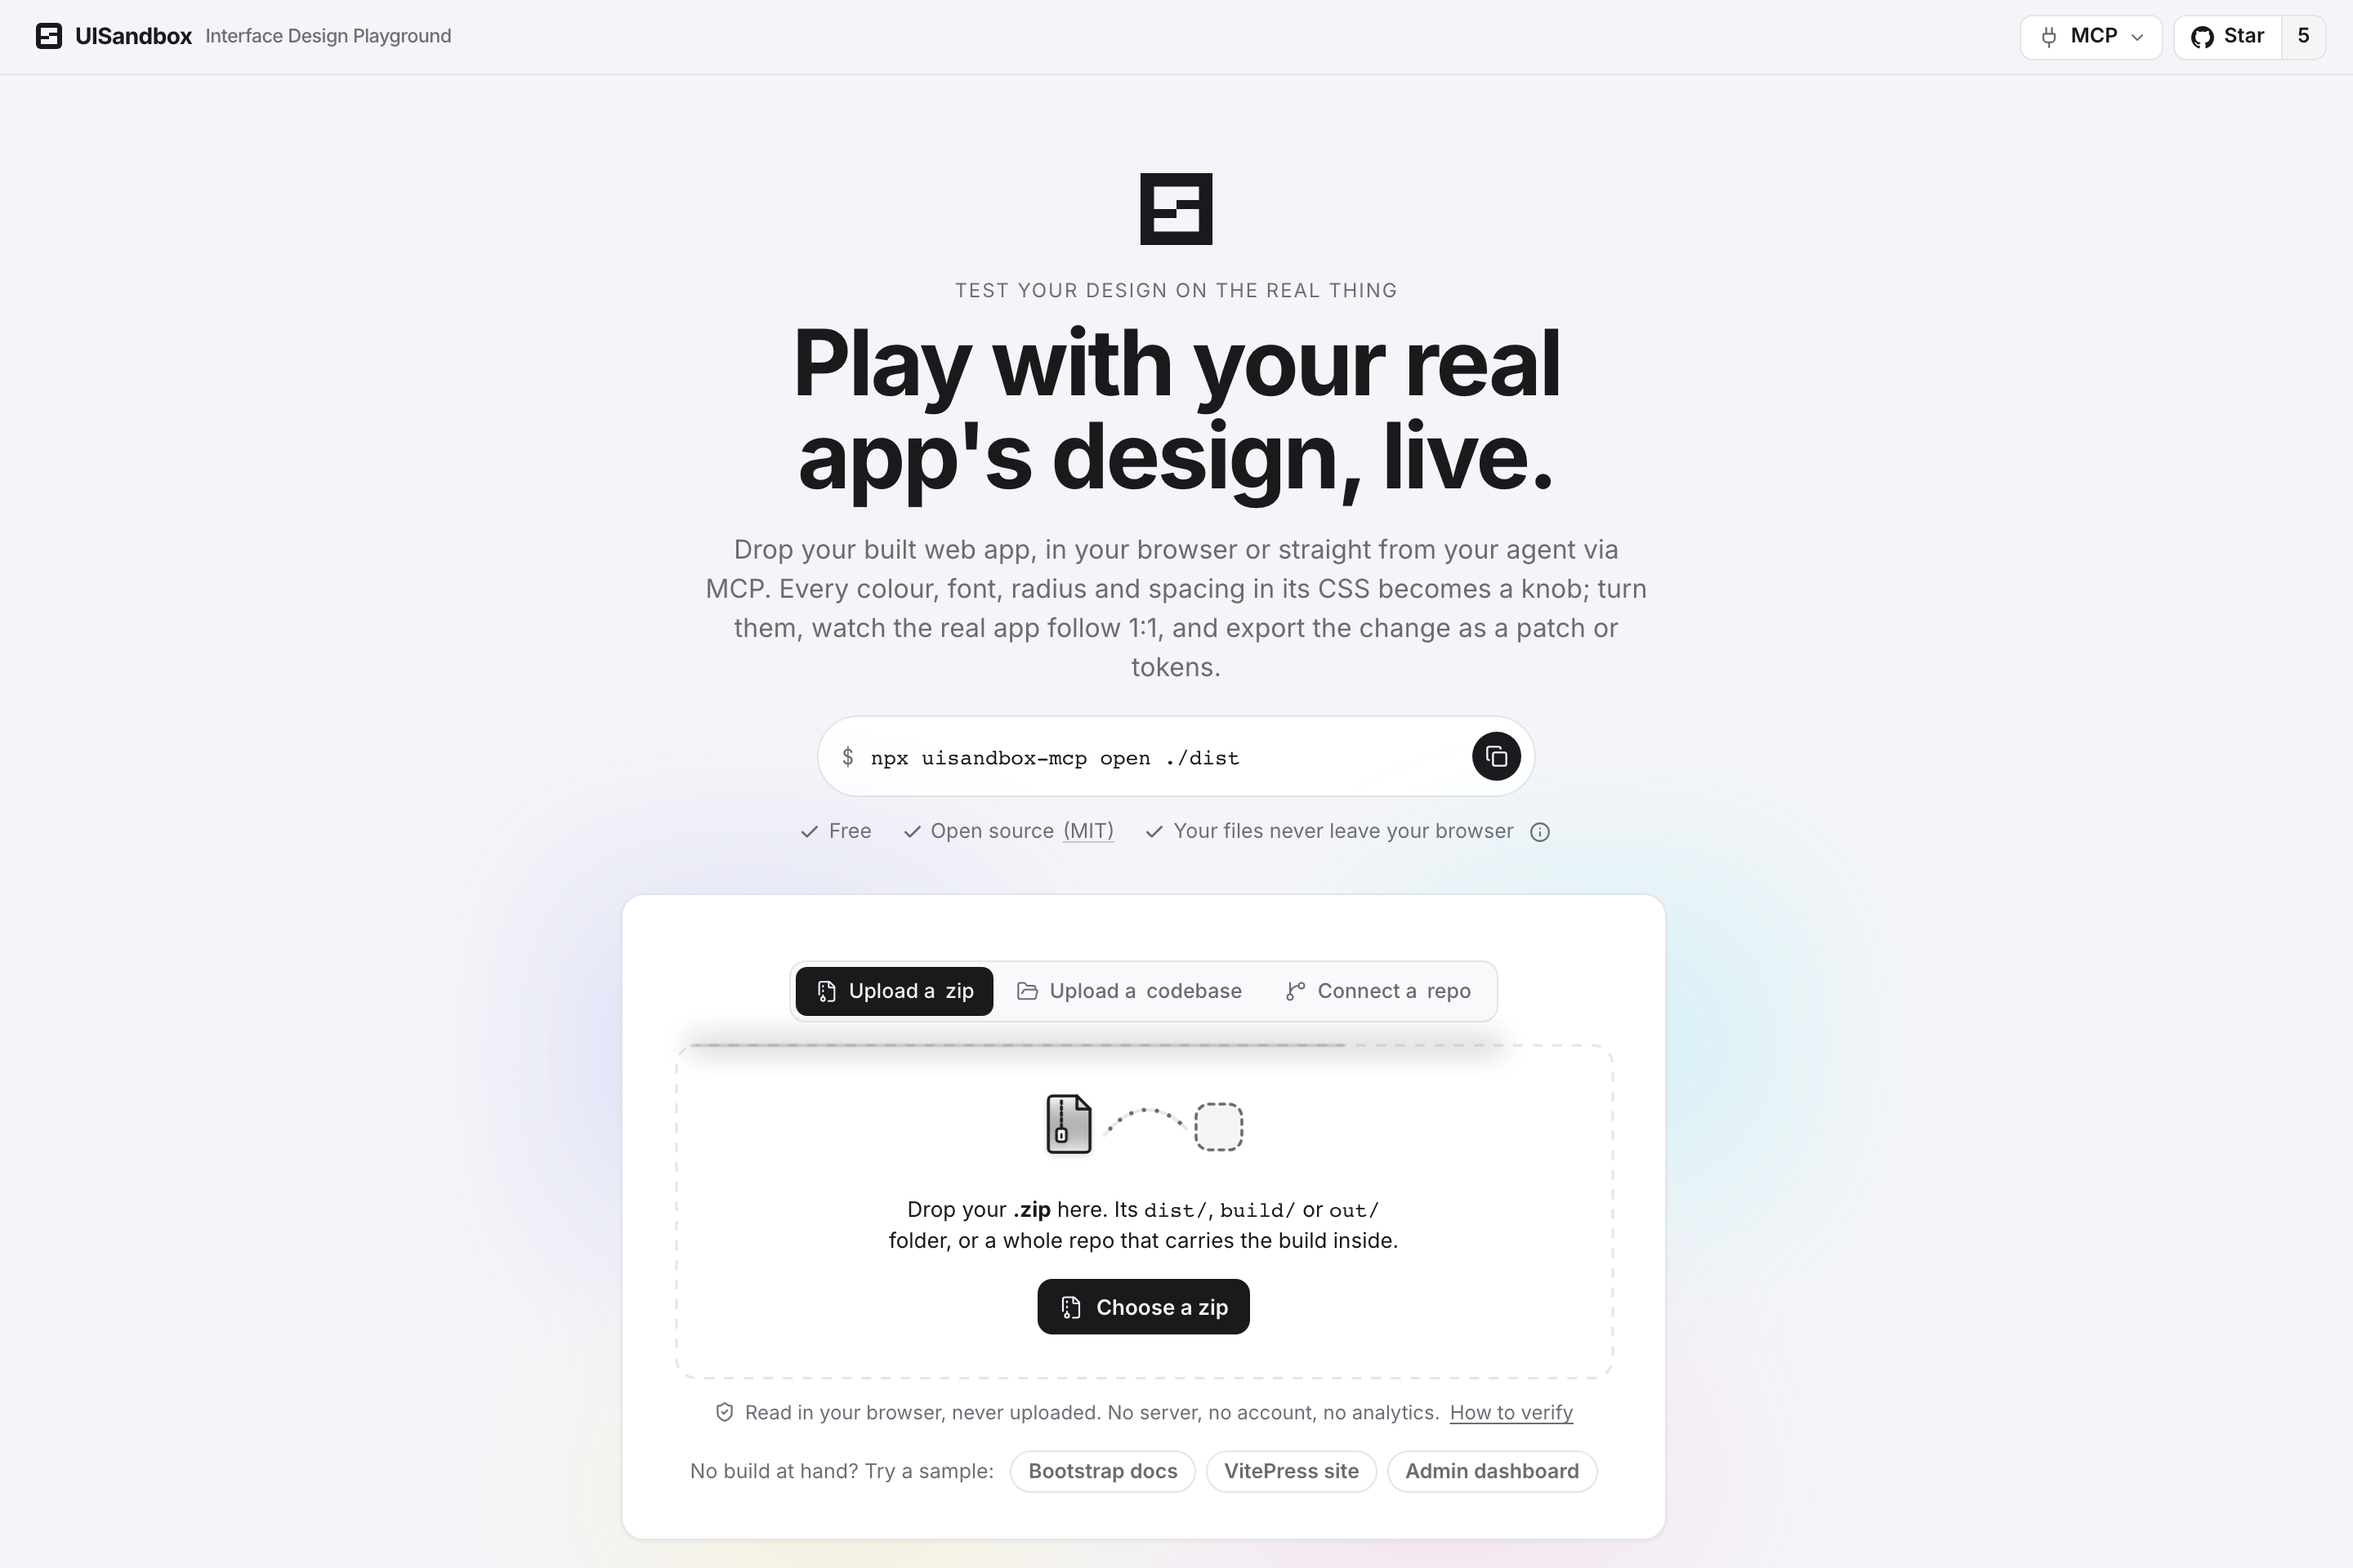
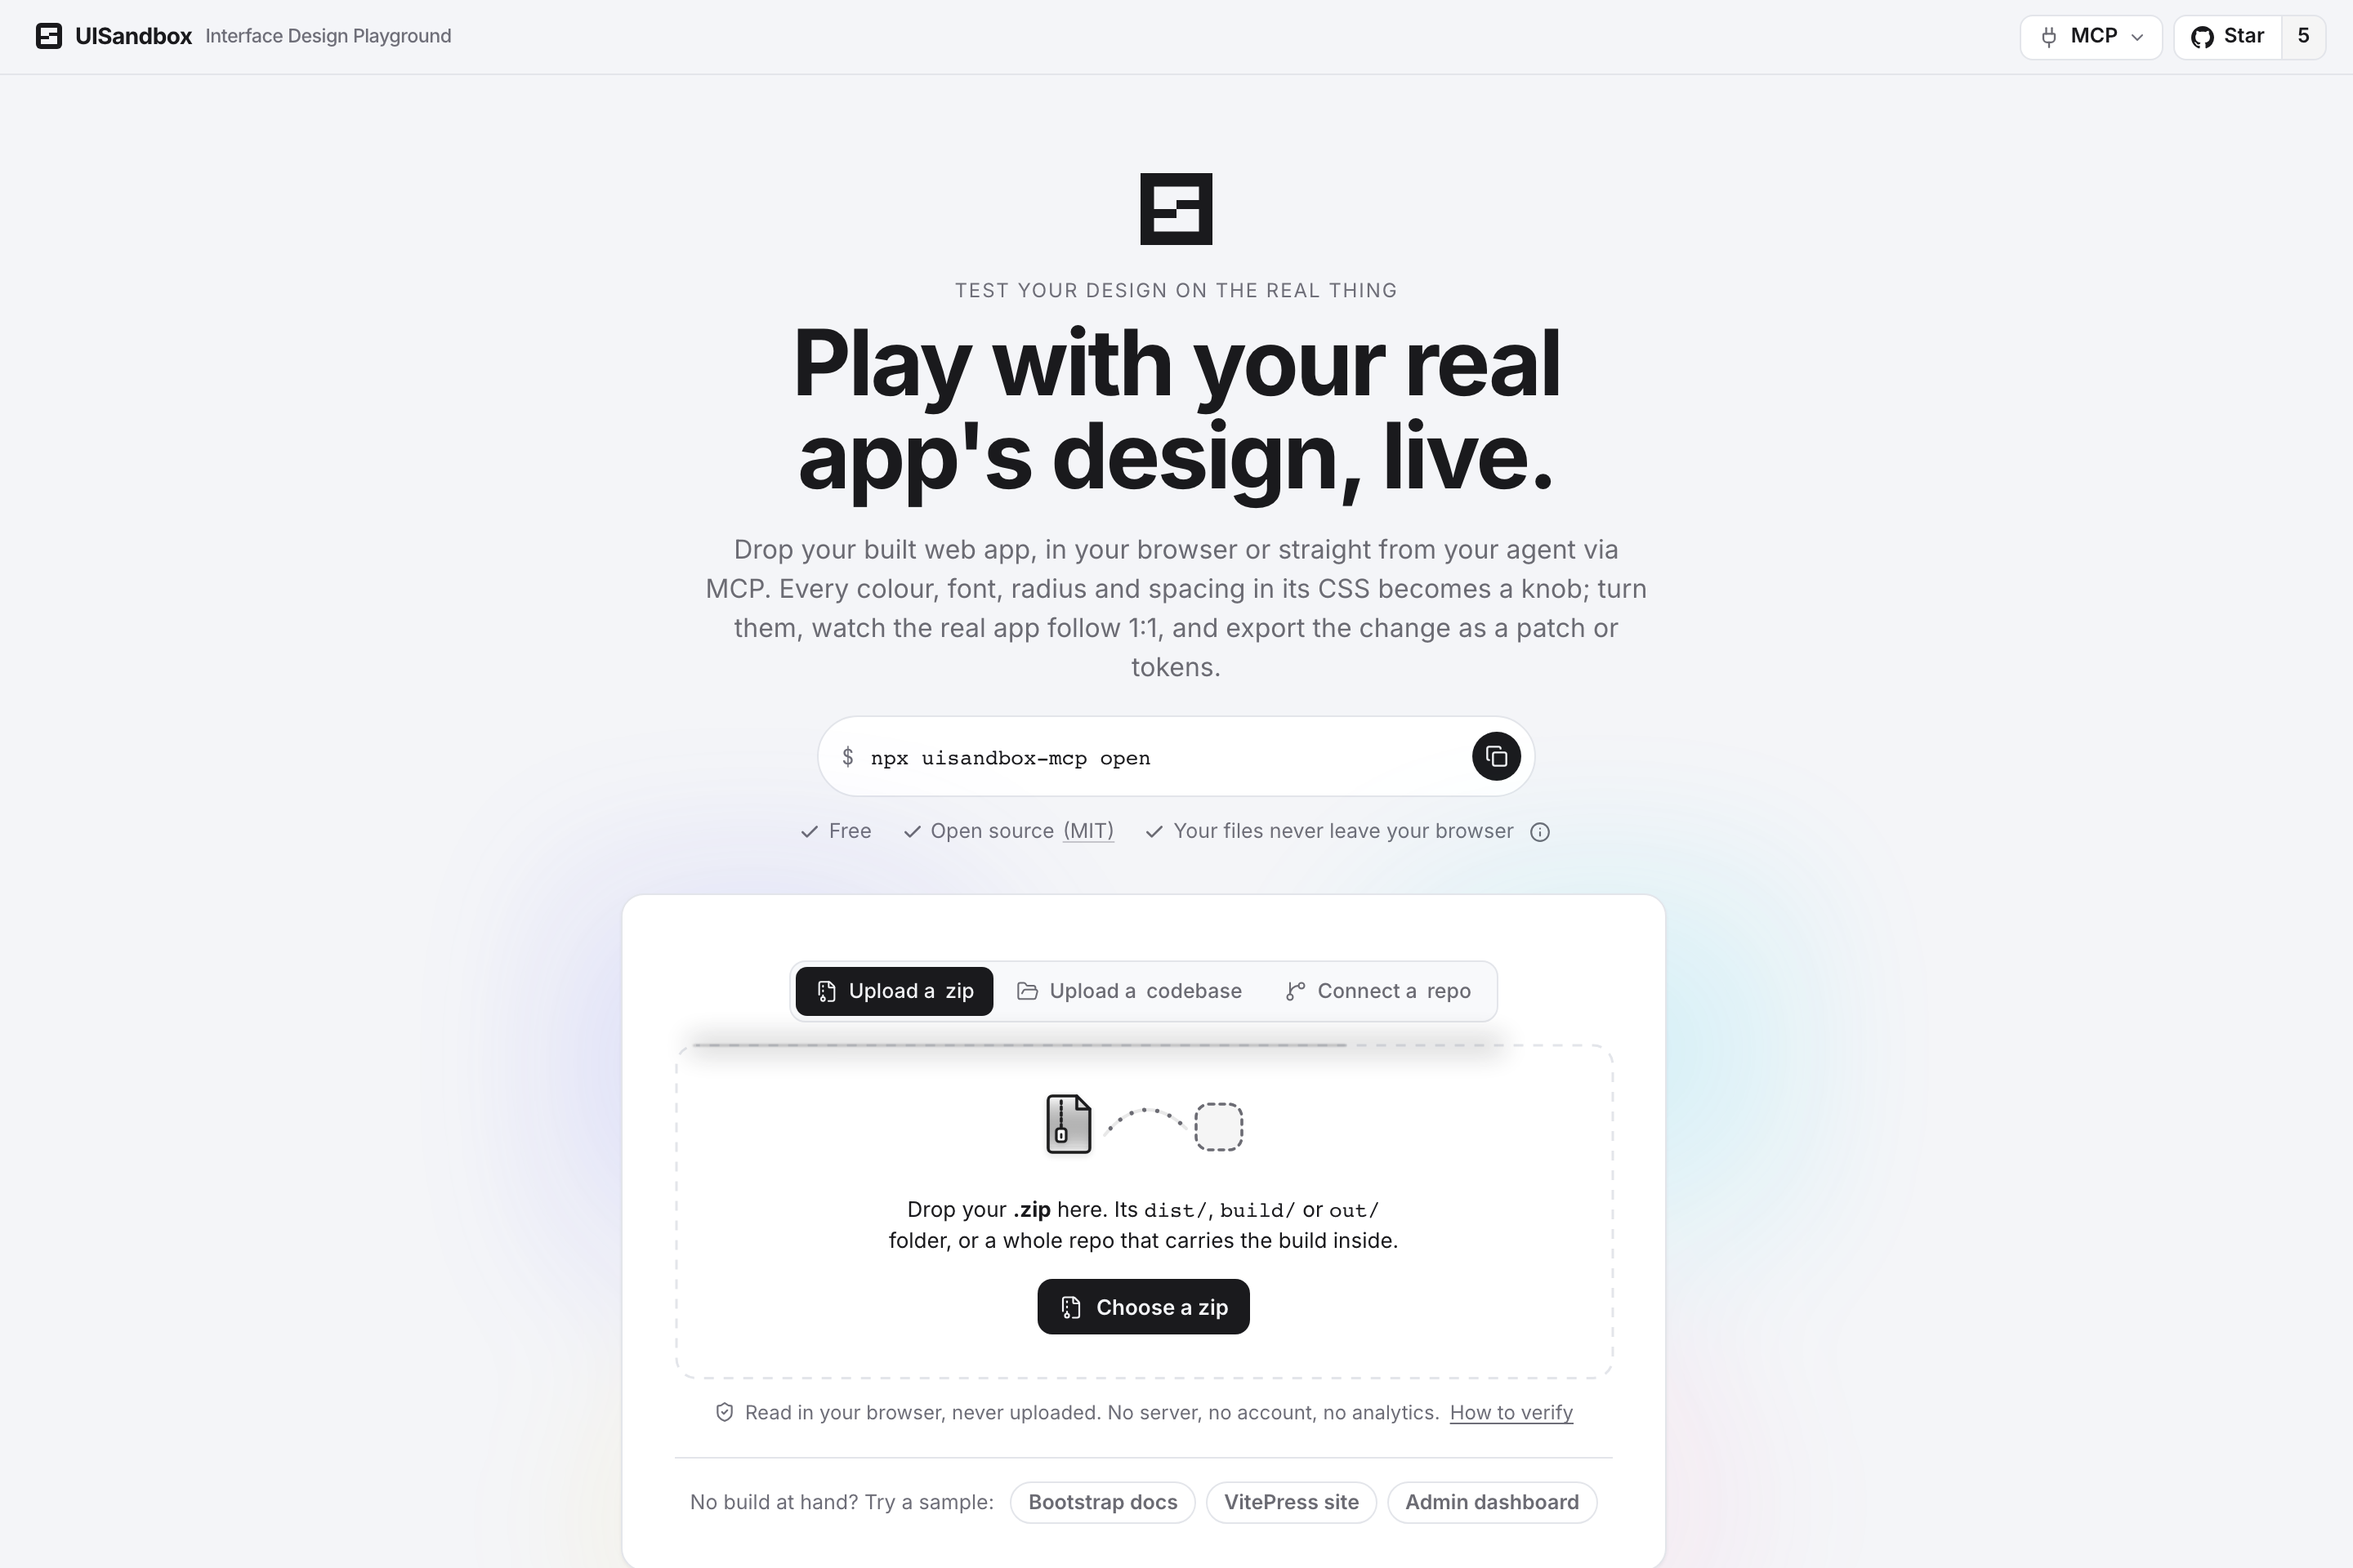
The install line is the zero-thought form: 'npx uisandbox-mcp open' — run inside your project, it finds the build; ./dist stays as the argument form in docs; OG and hero stills reshot

Changed region(s): [[0.2812, 0.9062, 0.6875, 1.0]]

diff --git a/src/app/Intake.tsx b/src/app/Intake.tsx
@@ -236,7 +236,7 @@ function Landing() {
       </section>
       <section className="landing__sec">
         <h2>From your terminal, or from your agent</h2>
-        <p>The same engine runs as an MCP server, and as a <b>Claude Code skill</b>, <code>/uisandbox</code>. Say <em>"open this app in UISandbox"</em> and it builds, loads and opens the real sandbox in your browser; what you turn comes back, so <em>"export what I changed"</em> just works. The plugin installs the skill and the server in one step; any MCP client (Cursor, Claude Desktop, Codex) gets the server and its own <code>/uisandbox:open</code> prompt. Or <code>npx uisandbox-mcp open ./dist</code> without any agent.</p>
+        <p>The same engine runs as an MCP server, and as a <b>Claude Code skill</b>, <code>/uisandbox</code>. Say <em>"open this app in UISandbox"</em> and it builds, loads and opens the real sandbox in your browser; what you turn comes back, so <em>"export what I changed"</em> just works. The plugin installs the skill and the server in one step; any MCP client (Cursor, Claude Desktop, Codex) gets the server and its own <code>/uisandbox:open</code> prompt. Or <code>npx uisandbox-mcp open</code> inside your project, without any agent.</p>
         <InstallLine />
       </section>
       <section className="landing__sec landing__sec--quiet">

diff --git a/src/app/InstallLine.tsx b/src/app/InstallLine.tsx
@@ -2,7 +2,7 @@ import { useState } from 'react'
 import { Check, Copy } from 'lucide-react'
 
 const LINES: Array<{ id: string; label: string; cmd: string; hint: string }> = [
-  { id: 'cli', label: 'Terminal', cmd: 'npx uisandbox-mcp open ./dist', hint: 'Opens the sandbox in your browser with your build folder (or a zip). Or just `npx uisandbox-mcp open` inside your project: it finds the build — dist/, build/, out/, whatever yours is called.' },
+  { id: 'cli', label: 'Terminal', cmd: 'npx uisandbox-mcp open', hint: 'Run it inside your project: it finds the build (dist/, build/, out/, whatever yours is called) and opens the sandbox in your browser. A folder or zip as argument works too.' },
   { id: 'claude', label: 'Claude Code', cmd: 'claude mcp add uisandbox -- npx -y uisandbox-mcp', hint: 'Then: "open this app in UISandbox". It builds, loads, opens.' },
   { id: 'plugin', label: '/uisandbox skill', cmd: '/plugin marketplace add AlexanderKaan/uisandbox\n/plugin install uisandbox@uisandbox', hint: 'Two commands in Claude Code: the /uisandbox skill and the MCP server in one plugin.' },
   { id: 'mcp', label: 'Any MCP client', cmd: 'npx -y uisandbox-mcp', hint: 'Cursor, Claude Desktop, Codex: add as a stdio server.' },

diff --git a/README.md b/README.md
@@ -23,7 +23,7 @@ Restyle your app without rebuilding it — drop the build, turn the knobs, watch
 </p>
 
 ```bash
-npx uisandbox-mcp open ./dist     # the sandbox opens in your browser with your build — no agent needed
+npx uisandbox-mcp open            # run inside your project: it finds the build and opens the sandbox — no agent needed
 ```
 
 Or drop a zip on **[uisandbox.org](https://uisandbox.org)** — no build at hand? *Try a sample* under the drop zone (the Bootstrap docs, a VitePress site, an admin dashboard). Or, in Claude Code: `/plugin marketplace add AlexanderKaan/uisandbox` → `/plugin install uisandbox@uisandbox` and say *"open this app in UISandbox"*.

diff --git a/mcp/README.md b/mcp/README.md
@@ -34,7 +34,7 @@ The conversation this is built for: *"Can I look at this app in a sandbox and ch
 ## Without an agent
 
 ```bash
-npx uisandbox-mcp open ./dist          # a folder or a zip: the sandbox opens in your browser, served from 127.0.0.1
+npx uisandbox-mcp open                 # inside your project: finds the build, opens the sandbox (a folder or zip as argument works too)
 ```
 
 ## Slash commands
